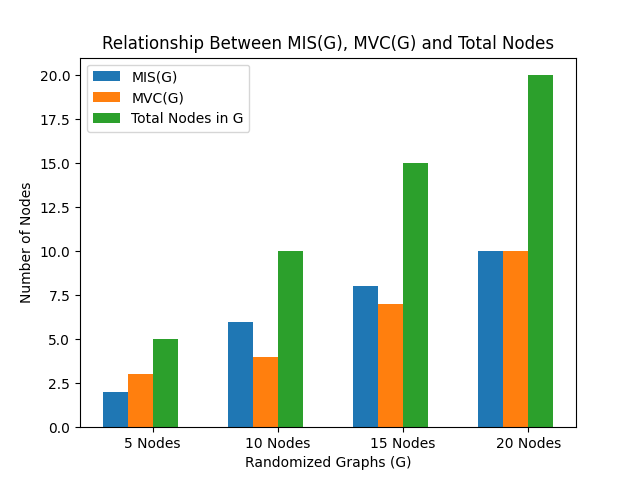
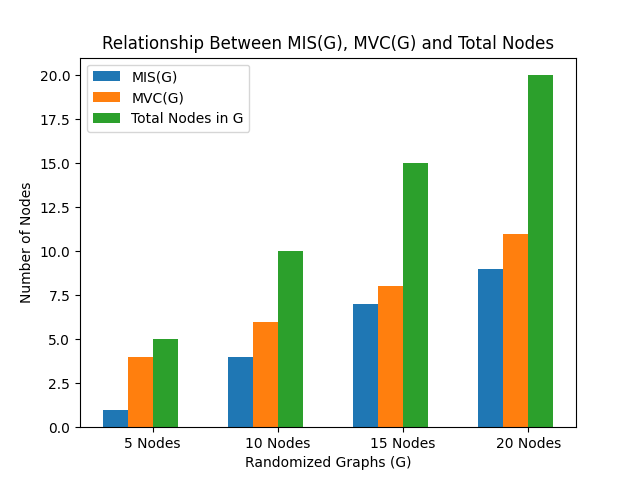
fixed part of code

diff --git a/Lab 2/Part 2/Exp 4/independentset.py b/Lab 2/Part 2/Exp 4/independentset.py
@@ -22,9 +22,21 @@ def MIS(G):
 X = ['5 Nodes', '10 Nodes', '15 Nodes', '20 Nodes']
 
 G1 = create_random_graph(5,10)
+print(G1.adj)
+print(MIS(G1))
+print(MVC(G1))
 G2 = create_random_graph(10,20)
+print(G2.adj)
+print(MIS(G2))
+print(MVC(G2))
 G3 = create_random_graph(15,30)
+print(G3.adj)
+print(MIS(G3))
+print(MVC(G3))
 G4 = create_random_graph(20,40)
+print(G4.adj)
+print(MIS(G4))
+print(MVC(G4))
 
 max_idpt_set = [len(MIS(G1)), len(MIS(G2)), len(MIS(G3)), len(MIS(G4))]
 min_ver_cov = [len(MVC(G1)), len(MVC(G2)), len(MVC(G3)), len(MVC(G4))]

diff --git a/Lab 2/Part 2/Exp 4/graph.py b/Lab 2/Part 2/Exp 4/graph.py
@@ -230,7 +230,7 @@ def create_random_graph(i, j):
     while j > 0:
         a = randint(0, i - 1)
         b = randint(0, i - 1)
-        if (a != b) or (b not in rand_graph.adj[a]):
+        if (a != b) and (b not in rand_graph.adj[a]) and (a not in rand_graph.adj[b]):
             rand_graph.add_edge(a, b)
             j -= 1  # decrease j to continue loop and randomization process until no edges are left
 
